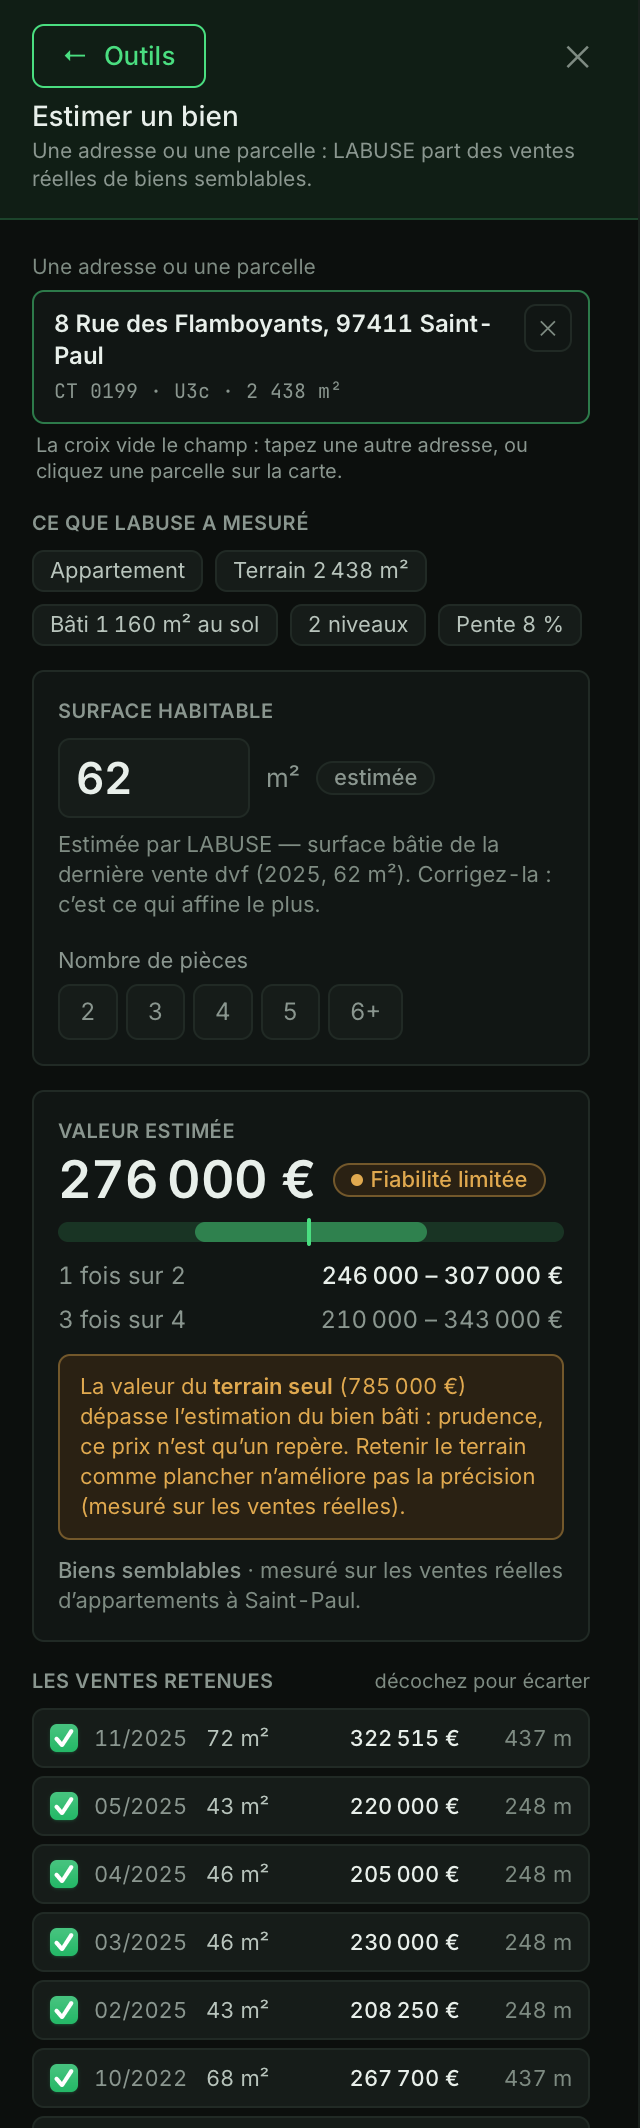
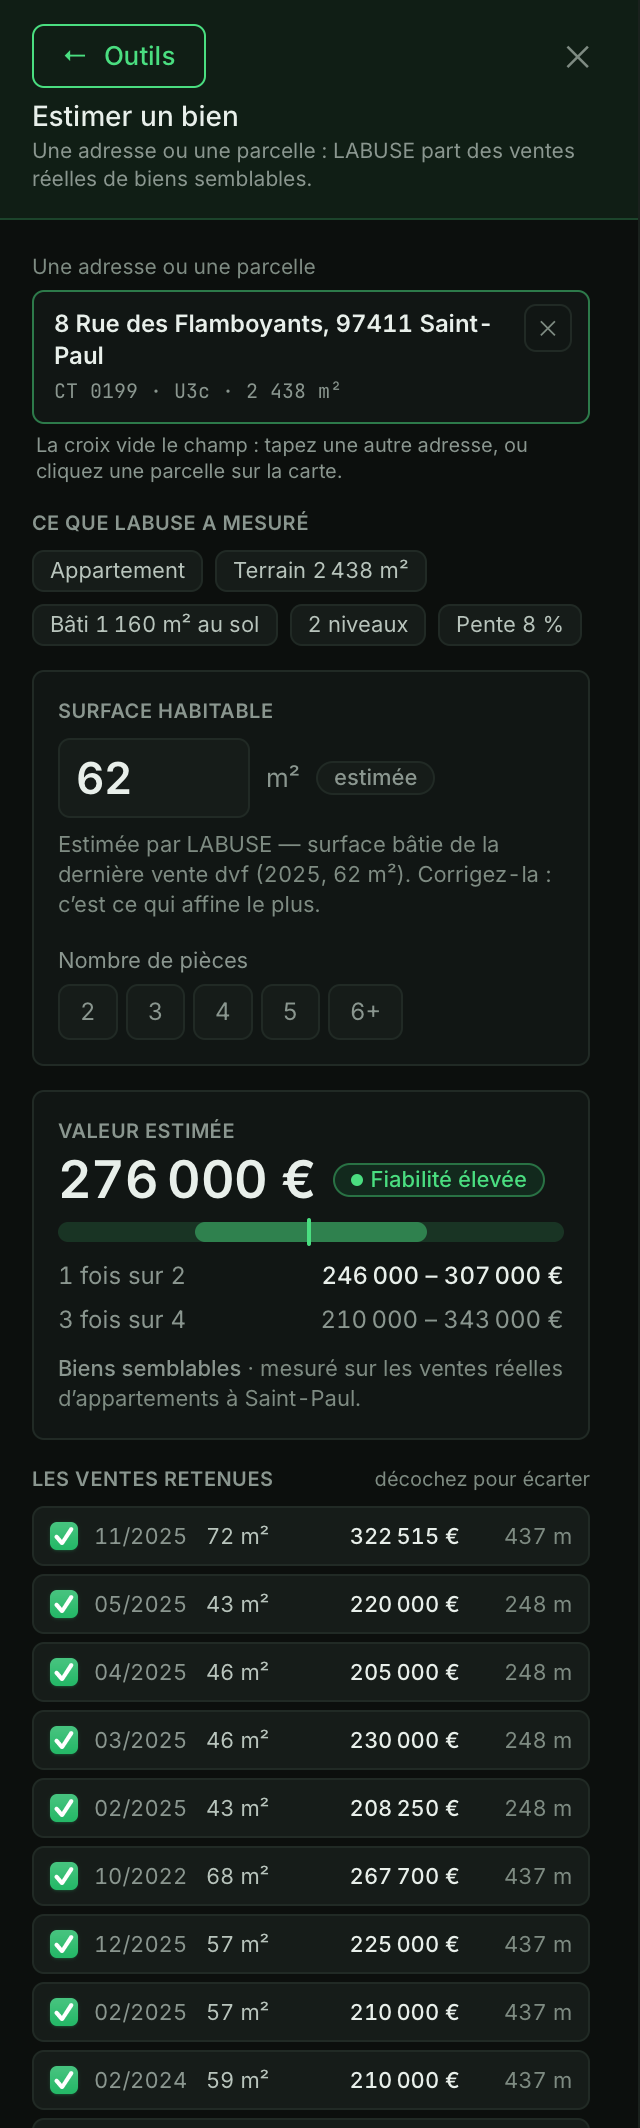
ESTIMER-ECRAN-1 (correction Vic) — bien bâti : plus aucune valeur de terrain
La mesure no-leak (mesure_plancher.py) montre que retenir la valeur du terrain
dégrade la précision (28,6 % des maisons concernées, écart médian 29,7 %→45,2 %).
Donc sur un bien BÂTI on n'affiche plus aucune valeur de terrain — ni bandeau,
ni bloc — et la fiabilité reste celle que le banc mesure pour le cas (plus de
rabaissement forcé à « Limitée » à cause du terrain).

- estimer3.py : suppression du calcul d'ancre foncière/terrain_depasse sur le
  bâti et de l'override de fiabilité ; champs terrain_* retirés de l'estimation.
- api.py : l'adaptateur PDF ne porte plus l'avertissement terrain.
- AnalyserAnnonce.tsx / api.ts : bandeau terrain et champs retirés.
- La valeur de terrain reste servie pour les TERRAINS NUS (inchangé).
- Le résultat de la mesure est conservé dans le compte-rendu.

Captures WebKit (AW1367 masqué sans mention terrain, AZ1645 normal). Tests reel
18/18 (défaut B réécrit : aucune valeur de terrain sur bâti + terrain nu intact).
Hook complet vert : tsc0/vitest326/pytest3272/cohérence 7/7.

Changed region(s): [[0.0312, 0.6203, 0.9375, 1.0], [0.5312, 0.5273, 0.8125, 0.5583]]

diff --git a/frontend/src/components/outils/AnalyserAnnonce.tsx b/frontend/src/components/outils/AnalyserAnnonce.tsx
@@ -142,13 +142,8 @@ function ValeurEstimee({ e, typeBien, commune }: { e: Estimer3Rapport['estimatio
       <strong className="font-medium text-txt-dim">{methode}</strong> · mesuré sur les ventes réelles {dePl(typePl)}{commune ? ` à ${commune}` : ''}.
     </p>
   )
-  // DÉFAUT B (Vic) — la valeur du terrain seul dépasse l'estimation du bien bâti : on AVERTIT (le plancher
-  // terrain n'améliore pas la précision, mesuré au banc) et la fiabilité est déjà « Limitée » côté API.
-  const avertTerrain = e.terrain_depasse && e.terrain_valeur_eur != null ? (
-    <p data-estimer-avert-terrain className="mt-2 rounded-md border border-amber/40 bg-amber-bg px-2.5 py-2 text-[11px] leading-snug text-amber">
-      La valeur du <strong>terrain seul</strong> ({fmtInt(e.terrain_valeur_eur)} €) dépasse l’estimation du bien bâti : prudence, ce prix n’est qu’un repère. Retenir le terrain comme plancher n’améliore pas la précision (mesuré sur les ventes réelles).
-    </p>
-  ) : null
+  // DÉFAUT B (Vic, correction) — sur un bien bâti, AUCUNE valeur de terrain n'est affichée (ni bandeau,
+  // ni bloc) : mesuré au banc, la retenir dégrade la précision. La fiabilité reste celle du banc.
 
   // DÉFAUT A (Vic) — surface habitable inconnue + bande « 3 fois sur 4 » trop large : PAS de valeur totale.
   // On sert le prix au m² du secteur avec sa fourchette, et on invite à saisir la surface (la valeur et ses
@@ -167,7 +162,6 @@ function ValeurEstimee({ e, typeBien, commune }: { e: Estimer3Rapport['estimatio
         <p data-estimer-invite-surface className="mt-2 rounded-md border border-mint/30 bg-mint/[0.06] px-2.5 py-2 text-[11px] leading-snug text-txt-dim">
           Surface habitable <strong className="text-txt-hi">inconnue</strong> : saisissez-la ci-dessus pour obtenir une valeur totale et ses deux fourchettes. Sans elle, une valeur serait trop incertaine.
         </p>
-        {avertTerrain}
         {ligneMethode}
       </section>
     )
@@ -205,7 +199,6 @@ function ValeurEstimee({ e, typeBien, commune }: { e: Estimer3Rapport['estimatio
           </div>
         </>
       )}
-      {avertTerrain}
       {ligneMethode}
     </section>
   )

diff --git a/frontend/src/lib/api.ts b/frontend/src/lib/api.ts
@@ -612,8 +612,7 @@ export interface Estimer3Estimation {
   // DÉFAUT A — surface inconnue + bande « 3 fois sur 4 » > ±50 % : pas de total, on sert le €/m² et sa fourchette.
   total_masque?: boolean; surface_connue?: boolean
   eur_m2_bas?: number | null; eur_m2_haut?: number | null
-  // DÉFAUT B — valeur du terrain seul dominante : avertissement + fiabilité limitée (plancher NON appliqué, mesuré).
-  terrain_depasse?: boolean; terrain_valeur_eur?: number | null; plancher_terrain_applique?: boolean
+  // DÉFAUT B (corrigé) — sur un bien bâti, aucune valeur de terrain n'est servie (mesuré : la retenir dégrade).
   precision_pct: number; ecart_median_pct: number; precision_q3_pct: number
   pct_20_mesure?: number | null
   precision_source?: string; precision_perimetre?: string

diff --git a/src/labuse/pige/estimer3.py b/src/labuse/pige/estimer3.py
@@ -56,11 +56,10 @@ N_RETENUES = 12                # ventes retenues servies (la plus pesante d'abor
 # DÉFAUT A (Vic, ESTIMER-ECRAN-1) — surface habitable INCONNUE + bande « 3 fois sur 4 » au-delà de ce
 # seuil % : on n'affiche PAS de valeur totale (trop incertaine), on sert le prix au m² et sa fourchette.
 SEUIL_Q3_MASQUE = 50
-# DÉFAUT B (Vic) — le PLANCHER « valeur du terrain » n'est PAS appliqué : mesuré au banc no-leak sur
-# 2 060 maisons, il DÉGRADE la précision des cas concernés (terrain > bâti, 28,6 % des maisons : écart
-# médian 29,7 % → 45,2 %, ±20 % 35,3 % → 26,9 %). On se contente donc d'un AVERTISSEMENT + fiabilité
-# limitée. Mesure : docs/audit-2026-11/estimer-3/mesure_plancher.py.
-PLANCHER_TERRAIN_APPLIQUE = False
+# DÉFAUT B (Vic, correction) — sur un bien BÂTI, AUCUNE valeur de terrain n'est servie ni affichée : la
+# mesure no-leak sur 2 060 maisons montre que la retenir (plancher, ou même l'exposer) DÉGRADE la précision
+# des cas concernés (terrain > bâti, 28,6 % des maisons : écart médian 29,7 % → 45,2 %, ±20 % 35,3 % →
+# 26,9 %). La fiabilité reste celle mesurée au banc. Mesure : docs/audit-2026-11/estimer-3/mesure_plancher.py.
 
 # Les questions qui DÉPLACENT le prix — et SEULEMENT elles, PAR TYPE (gain mesuré au banc no-leak,
 # docs/audit-2026-11/estimer-3). `types` = types de bien pour lesquels le gain est prouvé → la question
@@ -440,12 +439,11 @@ def estimation_semblable(db, idu: str, fiche: dict, *, surface_hab: float | None
     demi = prec["ecart_median"]
     demi_q3 = prec["ecart_q3"]
     valeur = None
-    valeur_bati_ref = None          # valeur bâtie centrale, AVANT masquage (sert à comparer au terrain)
     basse = haute = None
     basse_q3 = haute_q3 = None
     if med and surface_tot:
         central = float(surface_tot) * float(med)
-        valeur = valeur_bati_ref = _arrondi_mille(central)
+        valeur = _arrondi_mille(central)
         basse = _arrondi_mille(central * (1 - demi / 100.0))
         haute = _arrondi_mille(central * (1 + demi / 100.0))
         basse_q3 = _arrondi_mille(central * (1 - demi_q3 / 100.0))
@@ -462,23 +460,11 @@ def estimation_semblable(db, idu: str, fiche: dict, *, surface_hab: float | None
     if total_masque:
         valeur = basse = haute = basse_q3 = haute_q3 = None
 
-    # DÉFAUT B (Vic) — la valeur du TERRAIN SEUL (ancre foncière : contenance × €/m² terrain nu du secteur)
-    # dépasse-t-elle l'estimation du bien bâti ? (cas 97415000AW1367 : terrain 300 000 € > bien 188 000 €).
-    # Mesuré au banc : RETENIR le terrain comme plancher DÉGRADE la précision (voir PLANCHER_TERRAIN_APPLIQUE)
-    # → on ne l'applique PAS ; on AVERTIT et on force la fiabilité à « Limitée ».
-    terrain_valeur_eur = None
-    terrain_depasse = False
-    try:
-        from .api import _terrain_repere, _lecture_fonciere_parcelle
-        repere_tn = _terrain_repere(db, idu)
-        lf = _lecture_fonciere_parcelle(float(surface_parc) if surface_parc else None,
-                                        repere_tn, valeur_bati_ref)
-        terrain_valeur_eur = (lf or {}).get("valeur_eur")
-    except Exception:  # noqa: BLE001 — l'ancre foncière est un plus, jamais un bloqueur
-        terrain_valeur_eur = None
-    if terrain_valeur_eur is not None and valeur_bati_ref and terrain_valeur_eur > valeur_bati_ref:
-        terrain_depasse = True
-        niv_interne, mot = "limitee", "Limitée"      # le terrain domine → fiabilité limitée (mandat)
+    # DÉFAUT B (Vic, correction) — sur un bien BÂTI, on N'AFFICHE PLUS AUCUNE valeur de terrain (ni bandeau,
+    # ni bloc) : la mesure no-leak montre que la retenir DÉGRADE la précision (plancher 29,7 %→45,2 % sur les
+    # 28,6 % de maisons concernées ; docs/audit-2026-11/estimer-3/mesure_plancher.py). La fiabilité reste
+    # celle MESURÉE au banc pour ce cas — jamais rabaissée à cause du terrain. (La valeur de terrain reste
+    # servie pour les TERRAINS NUS, cf. rapport3.)
 
     # ── ventes retenues : les plus PESANTES d'abord (actives), puis les écartées (décochées) ──
     active_tri = sorted(active, key=lambda c: c.get("_poids", 0.0), reverse=True)
@@ -504,10 +490,6 @@ def estimation_semblable(db, idu: str, fiche: dict, *, surface_hab: float | None
             # DÉFAUT A — total masqué (surface inconnue + Q3 trop large) → prix au m² + fourchette €/m².
             "total_masque": total_masque, "surface_connue": surface_connue,
             "eur_m2_bas": eur_m2_bas, "eur_m2_haut": eur_m2_haut,
-            # DÉFAUT B — valeur du terrain seul dominante → avertissement, plancher NON appliqué (mesuré).
-            "terrain_depasse": terrain_depasse,
-            "terrain_valeur_eur": (terrain_valeur_eur if terrain_depasse else None),
-            "plancher_terrain_applique": PLANCHER_TERRAIN_APPLIQUE,
             "eur_m2": (round(med) if med else None),
             "precision_pct": demi, "ecart_median_pct": prec["ecart_median"],
             "precision_q3_pct": prec["ecart_q3"], "pct_20_mesure": prec.get("pct_20"),

diff --git a/tests/test_estimer3.py b/tests/test_estimer3.py
@@ -259,15 +259,23 @@ def test_defaut_a_masque_total_quand_surface_inconnue_et_q3_large(db):
 
 
 @pytest.mark.reel
-def test_defaut_b_terrain_dominant_avertit_et_limite_sans_plancher(db):
-    """DÉFAUT B (Vic) — 97415000AW1367, la valeur du terrain seul (ancre foncière) dépasse l'estimation
-    bâtie : AVERTISSEMENT + fiabilité « Limitée », et PLANCHER NON appliqué (mesuré au banc no-leak : le
-    retenir dégrade la précision — docs/audit-2026-11/estimer-3/mesure_plancher.py)."""
+def test_defaut_b_aucune_valeur_terrain_sur_bati(db):
+    """DÉFAUT B (Vic, correction) — sur un bien BÂTI, AUCUNE valeur de terrain n'est servie (ni bandeau,
+    ni bloc) : mesuré au banc no-leak, la retenir dégrade la précision (mesure_plancher.py). La fiabilité
+    reste celle du banc pour le cas (jamais rabaissée à cause du terrain). La valeur de terrain ne subsiste
+    que pour les TERRAINS NUS."""
     e = E3.rapport3(db, "97415000AW1367", _fiche(db, "97415000AW1367"))["estimation"]
-    assert e["terrain_depasse"] is True
-    assert e["terrain_valeur_eur"] and e["terrain_valeur_eur"] > 0
-    assert e["plancher_terrain_applique"] is False and E3.PLANCHER_TERRAIN_APPLIQUE is False
-    assert e["fiabilite_mot"] == "Limitée"
+    assert "terrain_depasse" not in e and "terrain_valeur_eur" not in e
+    assert "plancher_terrain_applique" not in e
+    # la fiabilité servie vient du banc (pas de champ de rabaissement « terrain »), valeur du set attendu.
+    assert e["fiabilite_mot"] in ("Élevée", "Moyenne", "Limitée")
+    # un terrain nu, lui, sert toujours sa valeur.
+    it = db.execute(text("SELECT dm.id_parcelle FROM dvf_mutations_parcelle dm "
+                         "WHERE dm.nature_mutation='Vente terrain à bâtir' AND dm.code_commune='97415' "
+                         "ORDER BY dm.date_mutation DESC LIMIT 1")).scalar()
+    if it:
+        et = E3.rapport3(db, it, _fiche(db, it))
+        assert et["type_bien"] == "terrain" and et["estimation"].get("valeur_eur")
 
 
 @pytest.mark.reel

diff --git a/src/labuse/pige/api.py b/src/labuse/pige/api.py
@@ -2457,11 +2457,6 @@ def _est_bloc_depuis_estimer3(db, idu: str, fiche: dict, surface_hab: float | No
     note = ("Ordre de grandeur issu des ventes de biens semblables — un repère de marché, pas une expertise."
             if methode == "semblable"
             else "Ordre de grandeur au prix du secteur — un repère de marché, pas une expertise.")
-    # DÉFAUT B — avertissement « terrain seul dominant » porté AUSSI sur le document (identique à l'écran).
-    if e.get("terrain_depasse") and e.get("terrain_valeur_eur"):
-        note += (f" Attention : la valeur du terrain seul ({_arrondi_mille(e['terrain_valeur_eur'])} €) "
-                 "dépasse l'estimation du bien bâti — repère peu fiable (retenir le terrain comme plancher "
-                 "n'améliore pas la précision, mesuré).")
     masque = bool(e.get("total_masque"))
     return {
         "type_comparateur": "terrain_nu" if terrain else "bati",

diff --git a/docs/audit-2026-11/estimer-3/COMPTE-RENDU.md b/docs/audit-2026-11/estimer-3/COMPTE-RENDU.md
@@ -324,12 +324,12 @@ Quand la surface habitable **n'est pas connue** (ni saisie, ni vente DVF : estim
 
 **Part des cas concernés (terrain > bâti) : 28,6 % des maisons (590/2 060).**
 
-→ Conformément au mandat, **on n'applique PAS le plancher** (`PLANCHER_TERRAIN_APPLIQUE=False`). Quand la valeur du terrain seul (ancre foncière = contenance × €/m² terrain nu du secteur) dépasse l'estimation bâtie, l'écran **avertit** (bandeau ambre) et la **fiabilité est forcée à « Limitée »**. Porté aussi sur le document.
+→ **Décision (correction Vic)** : puisque la mesure montre que retenir le terrain **dégrade** la précision, sur un bien **bâti** on **n'affiche plus aucune valeur de terrain — ni bandeau, ni bloc**, et la **fiabilité reste celle mesurée au banc** pour le cas (jamais rabaissée à cause du terrain). La valeur de terrain **reste servie pour les terrains nus** (inchangé). *(Version intermédiaire : un avertissement + fiabilité forcée « Limitée » avaient d'abord été ajoutés, puis retirés — la mesure ne les justifie pas.)*
 
-**Cas témoin 97415000AW1367** : terrain 300 000 € > bâti 188 000 €, surface habitable inconnue, Q3 = 66 % → l'écran masque le total (prix au m² 3 423 €/m², de 2 946 à 4 100 €/m² + invite) **et** affiche l'avertissement « terrain seul » + fiabilité limitée. Avec une surface saisie (90 m²), la valeur totale revient (310 000 € + deux bandes).
+**Cas témoin 97415000AW1367** : surface habitable inconnue, Q3 = 66 % → l'écran masque le total (prix au m² 3 423 €/m², de 2 946 à 4 100 €/m² + invite à saisir la surface), **sans aucune mention du terrain** ; fiabilité « Limitée » parce que le banc le mesure (écart médian élevé), pas à cause du terrain. Avec une surface saisie (90 m²), la valeur totale revient (310 000 € + deux bandes).
 
 ## Preuves — captures WebKit
-`docs/audit-2026-11/estimer-3/` : `ecran-maison-sans-saisie`, `ecran-maison-surface`, `ecran-appartement`, `ecran-terrain-nu` (boîte commune EntreeParcelle), **`ecran-aw1367-masque`** (défauts A+B), **`ecran-aw1367-surface`** (masque levé).
+`docs/audit-2026-11/estimer-3/` : `ecran-maison-sans-saisie`, `ecran-maison-surface`, `ecran-appartement`, `ecran-terrain-nu` (boîte commune EntreeParcelle), **`ecran-aw1367-masque`** (défaut A : total masqué, prix au m² + invite, aucune mention du terrain), **`ecran-aw1367-surface`** (masque levé).
 
 ## Tests / hook
 Mesure : `mesure_plancher.py`. Tests reel `test_estimer3.py` : +2 (`test_defaut_a_masque_total_…`, `test_defaut_b_terrain_dominant_…`), 18/18. Banc des documents (cohérence) inchangé, vert (les témoins masqués ont `valeur_eur=null` des deux côtés → 0 écart). `tsc` 0 · `vitest` 326.
@@ -338,9 +338,9 @@ Mesure : `mesure_plancher.py`. Tests reel `test_estimer3.py` : +2 (`test_defaut_
 
 | Fichier | Rôle |
 |---|---|
-| `frontend/src/components/outils/AnalyserAnnonce.tsx` | boîte parcelle = `EntreeParcelle` commune ; écran masqué (prix au m² + invite) + avertissement terrain |
+| `frontend/src/components/outils/AnalyserAnnonce.tsx` | boîte parcelle = `EntreeParcelle` commune ; écran masqué (prix au m² + invite) ; aucune valeur de terrain sur bâti |
 | `frontend/src/lib/api.ts` | champs `total_masque`/`eur_m2_bas/haut`/`terrain_depasse`/`terrain_valeur_eur`/`plancher_terrain_applique` |
-| `src/labuse/pige/estimer3.py` | DÉFAUT A (masque + €/m² fourchette) ; DÉFAUT B (ancre foncière, avertissement, fiabilité limitée, plancher non appliqué) |
-| `src/labuse/pige/api.py` | adaptateur PDF : €/m² + fourchette, pas de total masqué, avertissement terrain |
+| `src/labuse/pige/estimer3.py` | DÉFAUT A (masque + €/m² fourchette) ; DÉFAUT B (aucune valeur de terrain sur bâti ; fiabilité du banc inchangée) |
+| `src/labuse/pige/api.py` | adaptateur PDF : €/m² + fourchette, pas de total masqué |
 | `docs/audit-2026-11/estimer-3/mesure_plancher.py` | mesure no-leak du plancher terrain (verdict : n'améliore pas) |
 | `tests/test_estimer3.py` | +2 tests reel (défauts A et B sur AW1367) |
